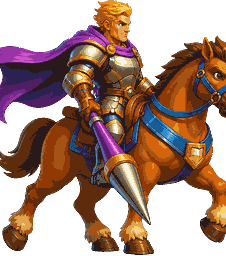
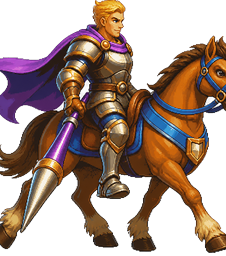
v545: 그래픽 업그레이드 계획 1차 적용 — 미보유 존 스프라이트 3종(warp/storm/burn)+보스 연출 2종(bossgate/doomaura) 생성·키잉·검증 후 통합(drawFx 선표현+폴백 유지, 강림 문 fx, 파멸기 오라), 근접 3종 walk 프레임 생성(idle -i 파생·스케일 정규화 0.965~0.988)·ART_FRAMES 등록 — RUN_GATES:ALL_OK

diff --git a/royal-arena/js/g1a-art-assets.js b/royal-arena/js/g1a-art-assets.js
@@ -130,7 +130,7 @@ const ART_CORE={archers:"assets/img_135.png",babyd:"assets/img_136.png",boar:"as
 
 
 'use strict';
-const ART_FRAMES={knight_idle:"assets/img_151.png",knight_atk:"assets/img_152.png",prince_idle:"assets/img_153.png",prince_atk:"assets/img_154.png",valk_idle:"assets/img_155.png",valk_atk:"assets/img_156.png",skarmy_idle:"assets/img_157.png",skarmy_atk:"assets/img_158.png",archers_idle:"assets/img_159.png",archers_atk:"assets/img_160.png",musketeer_idle:"assets/img_161.png",musketeer_atk:"assets/img_162.png",sniper_idle:"assets/img_163.png",sniper_atk:"assets/img_164.png",wizard_idle:"assets/img_165.png",wizard_atk:"assets/img_166.png",cleric_idle:"assets/img_167.png",cleric_atk:"assets/img_168.png",icem_idle:"assets/img_169.png",icem_atk:"assets/img_170.png",bomber_idle:"assets/img_171.png",bomber_atk:"assets/img_172.png",giant_idle:"assets/img_173.png",giant_atk:"assets/img_174.png",boar_idle:"assets/img_175.png",boar_atk:"assets/img_176.png",minions_idle:"assets/img_177.png",minions_atk:"assets/img_178.png",babyd_idle:"assets/img_179.png",babyd_atk:"assets/img_180.png",boss_royal_atk1:"assets/ra_boss_royal_atk1.png?v=518",boss_royal_atk2:"assets/ra_boss_royal_atk2.png?v=518",boss_royal_atk3:"assets/ra_boss_royal_atk3.png?v=518",boss_frost_atk1:"assets/ra_boss_frost_atk1.png?v=518",boss_frost_atk2:"assets/ra_boss_frost_atk2.png?v=518",boss_frost_atk3:"assets/ra_boss_frost_atk3.png?v=518",boss_lava_atk1:"assets/ra_boss_lava_atk1.png?v=518",boss_lava_atk2:"assets/ra_boss_lava_atk2.png?v=518",boss_lava_atk3:"assets/ra_boss_lava_atk3.png?v=518",boss_waste_atk1:"assets/ra_boss_waste_atk1.png?v=518",boss_waste_atk2:"assets/ra_boss_waste_atk2.png?v=518",boss_waste_atk3:"assets/ra_boss_waste_atk3.png?v=518",boss_idle:"assets/img_181.png",   /* v517: 갭 4맵 보스 atk 프레임 신규 생성 등록 */boss_atk:"assets/ra_frame_boss_atk.png",boss_sky_atk1:"assets/ra_boss_sky_atk1.png",boss_sky_atk2:"assets/ra_boss_sky_atk2.png",boss_sky_atk3:"assets/ra_boss_sky_atk3.png",boss_tomb_atk1:"assets/ra_boss_tomb_atk1.png",boss_tomb_atk2:"assets/ra_boss_tomb_atk2.png",boss_tomb_atk3:"assets/ra_boss_tomb_atk3.png",boss_divine_atk1:"assets/ra_boss_divine_atk1.png",boss_divine_atk2:"assets/ra_boss_divine_atk2.png",boss_divine_atk3:"assets/ra_boss_divine_atk3.png",boss_abyss_atk1:"assets/ra_boss_abyss_atk1.png",boss_abyss_atk2:"assets/ra_boss_abyss_atk2.png",boss_abyss_atk3:"assets/ra_boss_abyss_atk3.png",cleric_atk2:"assets/ra_pose_cleric_1.png",cleric_atk3:"assets/ra_pose_cleric_2.png",icem_atk2:"assets/ra_pose_icem_1.png",icem_atk3:"assets/ra_pose_icem_2.png",babyd_atk2:"assets/ra_pose_babyd_1.png",babyd_atk3:"assets/ra_pose_babyd_2.png",knight_walk:"assets/ra_walk_knight.png",prince_walk:"assets/ra_walk_prince.png",valk_walk:"assets/ra_walk_valk.png",skarmy_walk:"assets/ra_walk_skarmy.png",archers_walk:"assets/ra_walk_archers.png",musketeer_walk:"assets/ra_walk_musketeer.png",sniper_walk:"assets/ra_walk_sniper.png",wizard_walk:"assets/ra_walk_wizard.png",cleric_walk:"assets/ra_walk_cleric.png",icem_walk:"assets/ra_walk_icem.png",bomber_walk:"assets/ra_walk_bomber.png",giant_walk:"assets/ra_walk_giant.png",boar_walk:"assets/ra_walk_boar.png",flamer_walk:"assets/ra_walk_flamer.png",xbow_walk:"assets/ra_walk_xbow.png",golem_walk:"assets/ra_walk_golem.png",greed_walk:"assets/ra_walk_greed.png",lordknight_walk:"assets/ra_walk_lordknight.png",scarecrow_walk:"assets/ra_walk_scarecrow.png",xbow_idle:"assets/ra_spr_xbow.png",xbow_atk:"assets/ra_fat_xbow.png",flamer_idle:"assets/ra_spr_flamer.png",flamer_atk:"assets/ra_fat_flamer.png",golem_idle:"assets/ra_spr_golem.png",golem_atk:"assets/ra_fat_golem.png",greed_idle:"assets/ra_spr_greed.png",greed_atk:"assets/ra_fat_greed.png",lordknight_idle:"assets/ra_spr_lordknight.png",lordknight_atk:"assets/ra_fat_lordknight.png",scarecrow_idle:"assets/ra_spr_scarecrow.png",scarecrow_atk:"assets/ra_fat_scarecrow.png",fort_idle:"assets/ra_spr_fort.png",glass_idle:"assets/ra_spr_glass.png",netter_idle:"assets/ra_spr_netter.png?v=411",netter_atk:"assets/ra_atk_netter.png?v=411",netter_walk:"assets/ra_walk_netter.png?v=411",netter_atk2:"assets/ra_pose_netter_1.png",netter_atk3:"assets/ra_pose_netter_2.png",buzzer_idle:"assets/ra_spr_buzzer.png?v=411",buzzer_walk:"assets/ra_walk_buzzer.png?v=411",buzzer_atk:"assets/ra_atk_buzzer.png",buzzer_atk2:"assets/ra_pose_buzzer_1.png",buzzer_atk3:"assets/ra_pose_buzzer_2.png",batqueen_idle:"assets/ra_spr_batqueen.png?v=411",batqueen_atk:"assets/ra_atk_batqueen.png?v=411",batqueen_walk:"assets/ra_walk_batqueen.png?v=411",batqueen_atk2:"assets/ra_pose_batqueen_1.png",batqueen_atk3:"assets/ra_pose_batqueen_2.png",catapult_idle:"assets/ra_spr_catapult.png?v=411"}   /* v411: 신규 포즈 세트 — 자폭 벌레 atk는 폭발 fx 대체 */;   /* v304: 확장 유닛 포즈 */   /* v303: 이동 포즈 */   /* v302: 공격 3단 포즈(경년·타격·마무리) */   /* v302: 공격 시퀀스 포즈 */   /* v299: 보스 공격 프레임 */
+const ART_FRAMES={knight_walk:"assets/ra_walk_knight.png",prince_walk:"assets/ra_walk_prince.png",valk_walk:"assets/ra_walk_valk.png",   /* v545: 근접 3종 걷기 프레임 */knight_idle:"assets/img_151.png",knight_atk:"assets/img_152.png",prince_idle:"assets/img_153.png",prince_atk:"assets/img_154.png",valk_idle:"assets/img_155.png",valk_atk:"assets/img_156.png",skarmy_idle:"assets/img_157.png",skarmy_atk:"assets/img_158.png",archers_idle:"assets/img_159.png",archers_atk:"assets/img_160.png",musketeer_idle:"assets/img_161.png",musketeer_atk:"assets/img_162.png",sniper_idle:"assets/img_163.png",sniper_atk:"assets/img_164.png",wizard_idle:"assets/img_165.png",wizard_atk:"assets/img_166.png",cleric_idle:"assets/img_167.png",cleric_atk:"assets/img_168.png",icem_idle:"assets/img_169.png",icem_atk:"assets/img_170.png",bomber_idle:"assets/img_171.png",bomber_atk:"assets/img_172.png",giant_idle:"assets/img_173.png",giant_atk:"assets/img_174.png",boar_idle:"assets/img_175.png",boar_atk:"assets/img_176.png",minions_idle:"assets/img_177.png",minions_atk:"assets/img_178.png",babyd_idle:"assets/img_179.png",babyd_atk:"assets/img_180.png",boss_royal_atk1:"assets/ra_boss_royal_atk1.png?v=518",boss_royal_atk2:"assets/ra_boss_royal_atk2.png?v=518",boss_royal_atk3:"assets/ra_boss_royal_atk3.png?v=518",boss_frost_atk1:"assets/ra_boss_frost_atk1.png?v=518",boss_frost_atk2:"assets/ra_boss_frost_atk2.png?v=518",boss_frost_atk3:"assets/ra_boss_frost_atk3.png?v=518",boss_lava_atk1:"assets/ra_boss_lava_atk1.png?v=518",boss_lava_atk2:"assets/ra_boss_lava_atk2.png?v=518",boss_lava_atk3:"assets/ra_boss_lava_atk3.png?v=518",boss_waste_atk1:"assets/ra_boss_waste_atk1.png?v=518",boss_waste_atk2:"assets/ra_boss_waste_atk2.png?v=518",boss_waste_atk3:"assets/ra_boss_waste_atk3.png?v=518",boss_idle:"assets/img_181.png",   /* v517: 갭 4맵 보스 atk 프레임 신규 생성 등록 */boss_atk:"assets/ra_frame_boss_atk.png",boss_sky_atk1:"assets/ra_boss_sky_atk1.png",boss_sky_atk2:"assets/ra_boss_sky_atk2.png",boss_sky_atk3:"assets/ra_boss_sky_atk3.png",boss_tomb_atk1:"assets/ra_boss_tomb_atk1.png",boss_tomb_atk2:"assets/ra_boss_tomb_atk2.png",boss_tomb_atk3:"assets/ra_boss_tomb_atk3.png",boss_divine_atk1:"assets/ra_boss_divine_atk1.png",boss_divine_atk2:"assets/ra_boss_divine_atk2.png",boss_divine_atk3:"assets/ra_boss_divine_atk3.png",boss_abyss_atk1:"assets/ra_boss_abyss_atk1.png",boss_abyss_atk2:"assets/ra_boss_abyss_atk2.png",boss_abyss_atk3:"assets/ra_boss_abyss_atk3.png",cleric_atk2:"assets/ra_pose_cleric_1.png",cleric_atk3:"assets/ra_pose_cleric_2.png",icem_atk2:"assets/ra_pose_icem_1.png",icem_atk3:"assets/ra_pose_icem_2.png",babyd_atk2:"assets/ra_pose_babyd_1.png",babyd_atk3:"assets/ra_pose_babyd_2.png",knight_walk:"assets/ra_walk_knight.png",prince_walk:"assets/ra_walk_prince.png",valk_walk:"assets/ra_walk_valk.png",skarmy_walk:"assets/ra_walk_skarmy.png",archers_walk:"assets/ra_walk_archers.png",musketeer_walk:"assets/ra_walk_musketeer.png",sniper_walk:"assets/ra_walk_sniper.png",wizard_walk:"assets/ra_walk_wizard.png",cleric_walk:"assets/ra_walk_cleric.png",icem_walk:"assets/ra_walk_icem.png",bomber_walk:"assets/ra_walk_bomber.png",giant_walk:"assets/ra_walk_giant.png",boar_walk:"assets/ra_walk_boar.png",flamer_walk:"assets/ra_walk_flamer.png",xbow_walk:"assets/ra_walk_xbow.png",golem_walk:"assets/ra_walk_golem.png",greed_walk:"assets/ra_walk_greed.png",lordknight_walk:"assets/ra_walk_lordknight.png",scarecrow_walk:"assets/ra_walk_scarecrow.png",xbow_idle:"assets/ra_spr_xbow.png",xbow_atk:"assets/ra_fat_xbow.png",flamer_idle:"assets/ra_spr_flamer.png",flamer_atk:"assets/ra_fat_flamer.png",golem_idle:"assets/ra_spr_golem.png",golem_atk:"assets/ra_fat_golem.png",greed_idle:"assets/ra_spr_greed.png",greed_atk:"assets/ra_fat_greed.png",lordknight_idle:"assets/ra_spr_lordknight.png",lordknight_atk:"assets/ra_fat_lordknight.png",scarecrow_idle:"assets/ra_spr_scarecrow.png",scarecrow_atk:"assets/ra_fat_scarecrow.png",fort_idle:"assets/ra_spr_fort.png",glass_idle:"assets/ra_spr_glass.png",netter_idle:"assets/ra_spr_netter.png?v=411",netter_atk:"assets/ra_atk_netter.png?v=411",netter_walk:"assets/ra_walk_netter.png?v=411",netter_atk2:"assets/ra_pose_netter_1.png",netter_atk3:"assets/ra_pose_netter_2.png",buzzer_idle:"assets/ra_spr_buzzer.png?v=411",buzzer_walk:"assets/ra_walk_buzzer.png?v=411",buzzer_atk:"assets/ra_atk_buzzer.png",buzzer_atk2:"assets/ra_pose_buzzer_1.png",buzzer_atk3:"assets/ra_pose_buzzer_2.png",batqueen_idle:"assets/ra_spr_batqueen.png?v=411",batqueen_atk:"assets/ra_atk_batqueen.png?v=411",batqueen_walk:"assets/ra_walk_batqueen.png?v=411",batqueen_atk2:"assets/ra_pose_batqueen_1.png",batqueen_atk3:"assets/ra_pose_batqueen_2.png",catapult_idle:"assets/ra_spr_catapult.png?v=411"}   /* v411: 신규 포즈 세트 — 자폭 벌레 atk는 폭발 fx 대체 */;   /* v304: 확장 유닛 포즈 */   /* v303: 이동 포즈 */   /* v302: 공격 3단 포즈(경년·타격·마무리) */   /* v302: 공격 시퀀스 포즈 */   /* v299: 보스 공격 프레임 */
 
 
 'use strict';
@@ -532,7 +532,7 @@ function spawnBossNow(){ if(S.bossSpawned||S.over) return; S.bossSpawned=true;
       if(__bm){   /* v543: 지도별 보스 형상 — idle·공격 프레임을 지도 전용 에셋으로 교체(기존엔 공용 프레임이 항상 승재해 모든 보스가 동일 형상) */
         try{ var __F=(typeof FRAMES!=='undefined')?FRAMES:null; if(__F){ var __bi=new Image(); __bi.src='assets/ra_boss_'+__bm+'.png'; __F['boss_idle']=__bi; } }catch(__e1){}   /* v544: window.FRAMES 게이트 제거 — const 전역은 window 속성이 아니어 v543 스왑이 무음 스킵됨 */
         try{ var __K=(typeof ATK3!=='undefined')?ATK3:null; if(__K){ var __mk=['atk1','atk2','atk3'], __arr=[]; for(var __ai=0;__ai<3;__ai++){ var __im=new Image(); __im.src='assets/ra_boss_'+__bm+'_'+__mk[__ai]+'.png'; __arr.push(__im); } __K.boss=__arr; } }catch(__e2){} }try{var __th=(__mp&&__mp.sprite&&(__mp.sprite.match(/ra_boss_(\w+)\.png/)||[])[1])||null;var __AF=(typeof ART_FRAMES!=='undefined')&&ART_FRAMES;if(__th&&__AF&&__AF.boss_atk&&__AF.boss_atk.src!==undefined)__AF.boss_atk.src='assets/ra_boss_'+__th+'_atk1.png';}catch(e){} }catch(e){} try{ S.__bossName=__mp?__mp.boss:null; }catch(e){} var __bw=(S.__bossWave||0), __bh=Math.round(BOSS_STATS.hp*__raDiffHp()*__raMapHp()*(1+0.35*__bw)), __bs2=Object.assign({},BOSS_STATS,{dmg:Math.round(BOSS_STATS.dmg*(1+0.15*__bw))}); const BU={key:'boss',team:'red',x:9,y:3.2,c:__bs2,hp:__bh,maxHp:__bh,shield:900,cd:1.2,dir:Math.PI/2,dead:false,swing:0,bob:1,spawnFx:0.45,doom:0,chargeT:0};
-      BU.target=kt; units.push(BU); S.boss=BU; ensureKsBtn(); banner('💀 부활한 왕이 강림했다!',2200); sfx('boomL'); } }   /* v192: 보스 강림(최상위 — 타워 파괴·타이머 폴백 공용) */
+      BU.target=kt; units.push(BU); S.boss=BU; ensureKsBtn(); try{ fx.push({x:kt.x,y:kt.y-0.5,t:0,dur:1.3,kind:'bossgate'}); }catch(__bge){}   /* v545: 강림 문 연출 */ banner('💀 부활한 왕이 강림했다!',2200); sfx('boomL'); } }   /* v192: 보스 강림(최상위 — 타워 파괴·타이머 폴백 공용) */
 
 
 function __raHudInline(){ try{   /* v202: HUD 4요소+DPS 인라인 !important — 시트 경쟁(잘림·정렬) 근절 */

diff --git a/royal-arena/index.html b/royal-arena/index.html
@@ -1205,7 +1205,7 @@ html body .info-box #btn-info-close{
   z-index:2 !important}
 html body .info-box #btn-info-close,html body .info-box #btn-info-close *{color:#2b1c05 !important;text-shadow:none !important}
 </style><style id="ui-v507">/* v507: 타이틀 zoom 핏터 상한 — 도움말 닫기 후 메인이 0.8까지 눌리는 급축소 차단(최소 0.93·한 번에 최대 4% 보정) */
-</style><div id="verchip" style="position:fixed;left:6px;bottom:2px;z-index:99990;background:rgba(0,0,0,.55);color:#ffd75e;font:700 10px monospace;padding:2px 6px;opacity:.62;border-radius:8px;pointer-events:none">v544</div><div id="app">
+</style><div id="verchip" style="position:fixed;left:6px;bottom:2px;z-index:99990;background:rgba(0,0,0,.55);color:#ffd75e;font:700 10px monospace;padding:2px 6px;opacity:.62;border-radius:8px;pointer-events:none">v545</div><div id="app">
 
   <!-- ===== 타이틀 ===== -->
   <section id="screen-title">
@@ -1589,7 +1589,7 @@ b.style.setProperty('background-size','auto,100% 100%','important');b.style.setP
 html body #rpane-score{overflow-y:auto !important;max-height:46vh !important;-webkit-overflow-scrolling:touch !important}
 html body .rrow-mirror b{font-size:11px !important;line-height:1.5 !important;white-space:pre-line !important;word-break:keep-all !important;overflow-wrap:anywhere !important;text-align:right !important;max-width:200px !important;font-weight:600 !important}
 </style>
-<script src="js/g1a-art-assets.js?v=544"></script><script src="js/g1b-art-assets.js?v=544"></script><script src="js/g1c-art-assets.js?v=544"></script>
+<script src="js/g1a-art-assets.js?v=545"></script><script src="js/g1b-art-assets.js?v=545"></script><script src="js/g1c-art-assets.js?v=545"></script>
 
 
 
@@ -1601,7 +1601,7 @@ html body .rrow-mirror b{font-size:11px !important;line-height:1.5 !important;wh
 
 
 
-<script src="js/g2-sprite-assets.js?v=544"></script>
+<script src="js/g2-sprite-assets.js?v=545"></script>
 <script id="ui-v510-js">/* v510: 지도·난이도 해금 단일 진실원 — 난이도별 맵 사다리 분리(단계별 해금). 악몽 해금=노멀 전맵 토벌(ra_map_clear_d0>=마지막 idx), 지옥=악몽 전맵 토벌(ra_map_clear_d1>=마지막 idx). 맵 해금은 현재 난이도 사다리에서 순차(clear_d+1). 표시순서≠사다리순서라 이름 매칭으로 사다리 idx 산출(v431 표시-idx 기록 버그 근본 수복). 기존 ra_map_clear_v1은 d0 마이그레이션 원천. */
 (function(){
  function MK(){ return {
@@ -1686,7 +1686,7 @@ setInterval(function(){
 
 
 
-<script src="js/g3-frame-assets.js?v=544"></script>
+<script src="js/g3-frame-assets.js?v=545"></script>
 
 
 
@@ -1697,7 +1697,7 @@ setInterval(function(){
 
 
 
-<script src="js/g4-ux-data.js?v=544"></script>
+<script src="js/g4-ux-data.js?v=545"></script>
 
 
 
@@ -1708,7 +1708,7 @@ setInterval(function(){
 
 
 
-<script src="js/g5-core.js?v=544"></script>
+<script src="js/g5-core.js?v=545"></script>
 
 
 
@@ -1719,19 +1719,7 @@ setInterval(function(){
 
 
 
-<script src="js/g6-battle.js?v=544"></script>
-
-
-
-
-
-
-
-
-
-
-
-<script src="js/g7-ui-systems.js?v=544"></script>
+<script src="js/g6-battle.js?v=545"></script>
 
 
 
@@ -1743,7 +1731,19 @@ setInterval(function(){
 
 
 
-<script src="js/g8-boot.js?v=544"></script><script src="js/g9-wide.js?v=544"></script><script src="js/g10-techtree.js?v=544"></script><script src="js/g11-camera.js?v=544"></script><script src="js/g12-camera-ui.js?v=544"></script>
+<script src="js/g7-ui-systems.js?v=545"></script>
+
+
+
+
+
+
+
+
+
+
+
+<script src="js/g8-boot.js?v=545"></script><script src="js/g9-wide.js?v=545"></script><script src="js/g10-techtree.js?v=545"></script><script src="js/g11-camera.js?v=545"></script><script src="js/g12-camera-ui.js?v=545"></script>
 
 
 

diff --git a/royal-arena/js/g1c-art-assets.js b/royal-arena/js/g1c-art-assets.js
@@ -282,6 +282,13 @@ function drawProj(p){
 const ZK=new Set(['snowzone','crater','venomzone','burnzone','plasmazone','stormzone','healzone','shockzone','rotzone','timewarp']);   /* v521 */   /* v519: 감전 존 추가 */   /* v404: 지면 지속 존 종류 — 렌더 순서 분리용 */
 const FXBEAM={img:null,ok:false}; try{ const __bi=new Image(); __bi.onload=function(){FXBEAM.ok=true;}; __bi.src='assets/ra_fx_plasma_beam.png'; FXBEAM.img=__bi; }catch(e){}   /* v406: 플라즈마 발사 빔 생성 스프라이트(실패 시 캔버스 폴백) */
 function drawFx(f){
+  /* v545: 존·보스 연출 스프라이트 선표현 — 있으면 대체, 없으면 기존 캔버스 폴백 */
+  try{
+    if(f.kind==='bossgate'){ var __bg545=window.__FXIMG&&window.__FXIMG.bossgate; if(__bg545&&__bg545.complete&&__bg545.naturalWidth>0&&__bg545.__valid!==false){ var _kg=f.t/f.dur,_gs=(1.2+1.4*Math.min(1,_kg*2))*TILE; ctx.save(); ctx.globalAlpha=Math.min(1,(f.dur-f.t)*2); ctx.drawImage(__bg545,f.x*TILE-_gs/2,f.y*TILE-_gs*0.62,_gs,_gs); ctx.restore(); return; } }
+    var __z545={stormzone:'storm',burnzone:'burn',warpzone:'warp'}[f.kind];
+    if(__z545){ var __i545=window.__FXIMG&&window.__FXIMG[__z545]; if(__i545&&__i545.complete&&__i545.naturalWidth>0&&__i545.__valid!==false){ var _r545=f.r*TILE,_p545=f.x*TILE,_q545=f.y*TILE,_a545=Math.min(1,f.t*2)*Math.min(1,(f.dur-f.t)*2); ctx.save(); ctx.globalAlpha=0.95*_a545; ctx.drawImage(__i545,_p545-_r545*1.02,_q545-_r545*0.55,_r545*2.04,_r545*1.1); ctx.restore(); return; } }
+  }catch(__ze){}
+
   const k=f.t/f.dur, px=f.x*TILE, py=f.y*TILE;
   ctx.globalAlpha=Math.max(0,1-k);
   if(f.kind==='beam'){   /* v406: 플라즈마 타워 발사 빔 — 생성 스프라이트 신축(폴백 그라디언트 내장) */
@@ -583,6 +590,7 @@ function render(){
     ctx.strokeStyle='rgba(255,255,255,.5)'; ctx.setLineDash([10,7]); ctx.lineWidth=2;
     ctx.beginPath(); ctx.moveTo(-BAND,BLUE_DEPLOY_MIN*TILE); ctx.lineTo(VW-BAND,BLUE_DEPLOY_MIN*TILE); ctx.stroke(); ctx.setLineDash([]);
   }
+  try{ if(S.boss&&!S.boss.dead&&S.boss.doom>8&&window.__FXIMG&&window.__FXIMG.doomaura&&window.__FXIMG.doomaura.complete&&window.__FXIMG.doomaura.naturalWidth>0&&window.__FXIMG.doomaura.__valid!==false){ var _dr545=(2.4+0.6*((S.boss.doom-8)/4))*TILE,_pu545=0.5+0.25*Math.sin(now*6); ctx.save(); ctx.globalAlpha=_pu545; ctx.drawImage(window.__FXIMG.doomaura,S.boss.x*TILE-_dr545/2,S.boss.y*TILE-_dr545*0.55,_dr545,_dr545); ctx.restore(); } }catch(__ae545){}   /* v545: 파멸기 충전 오라 */
   try{for(const t of towers) if(t.dead) drawRubble(t);}catch(__e){window.__skip=(window.__skip||0)+1;console.warn("draw-skip",__e.message);}
   try{for(const t of towers) if(!t.dead) drawTower(t);}catch(__e){window.__skip=(window.__skip||0)+1;console.warn("draw-skip",__e.message);}
   try{for(const u of [...units].sort((a,b)=>a.y-b.y)) drawUnit(u);}catch(__e){window.__skip=(window.__skip||0)+1;console.warn("draw-skip",__e.message);}
@@ -1238,3 +1246,5 @@ function __raAddRandomBtn(){
   openDeckEditor=function(){ var r=orig.apply(this,arguments); try{ setTimeout(__raAddRandomBtn,40); }catch(e){ } return r; };
   setInterval(function(){ try{ __raAddRandomBtn(); }catch(e){ } },300);   /* v193: 재시도 보장 */
 })();
+/* v545: 신규 존·보스 연출 스프라이트 병합 로더 — 기존 __FXIMG 로더와 공존(키 병합) */
+try{ if(!window.__FXIMG) window.__FXIMG={}; ['warp','storm','burn','bossgate','doomaura'].forEach(function(k545){ if(!window.__FXIMG[k545]){ var im545=new Image(); im545.__valid=true; im545.onerror=function(){ im545.__valid=false; }; im545.src='assets/ra_fx_'+k545+'.png'; window.__FXIMG[k545]=im545; } }); }catch(__e545){}

diff --git a/royal-arena/sw.js b/royal-arena/sw.js
@@ -1,4 +1,4 @@
-const CACHE = 'royal-arena-v544';
+const CACHE = 'royal-arena-v545';
 /* v449: 점진 캐싱 수복 — 구조 결함(install addAll 전량 실패) 제거.
    구버전: CORE 전량(330종·81MB) addAll → 자산 1개 실패 시 install reject → 기기가 구버전에 무기한 갇힘(v446 지연·미갱신 사고의 근원).
    신버전: ①install은 셸(html·js·아이콘, ~2MB)만 allSettled 선캐시 ②전체 assets는 activate 이후 백그라운드 프리페치(allSettled — 절대 reject 안 함)
